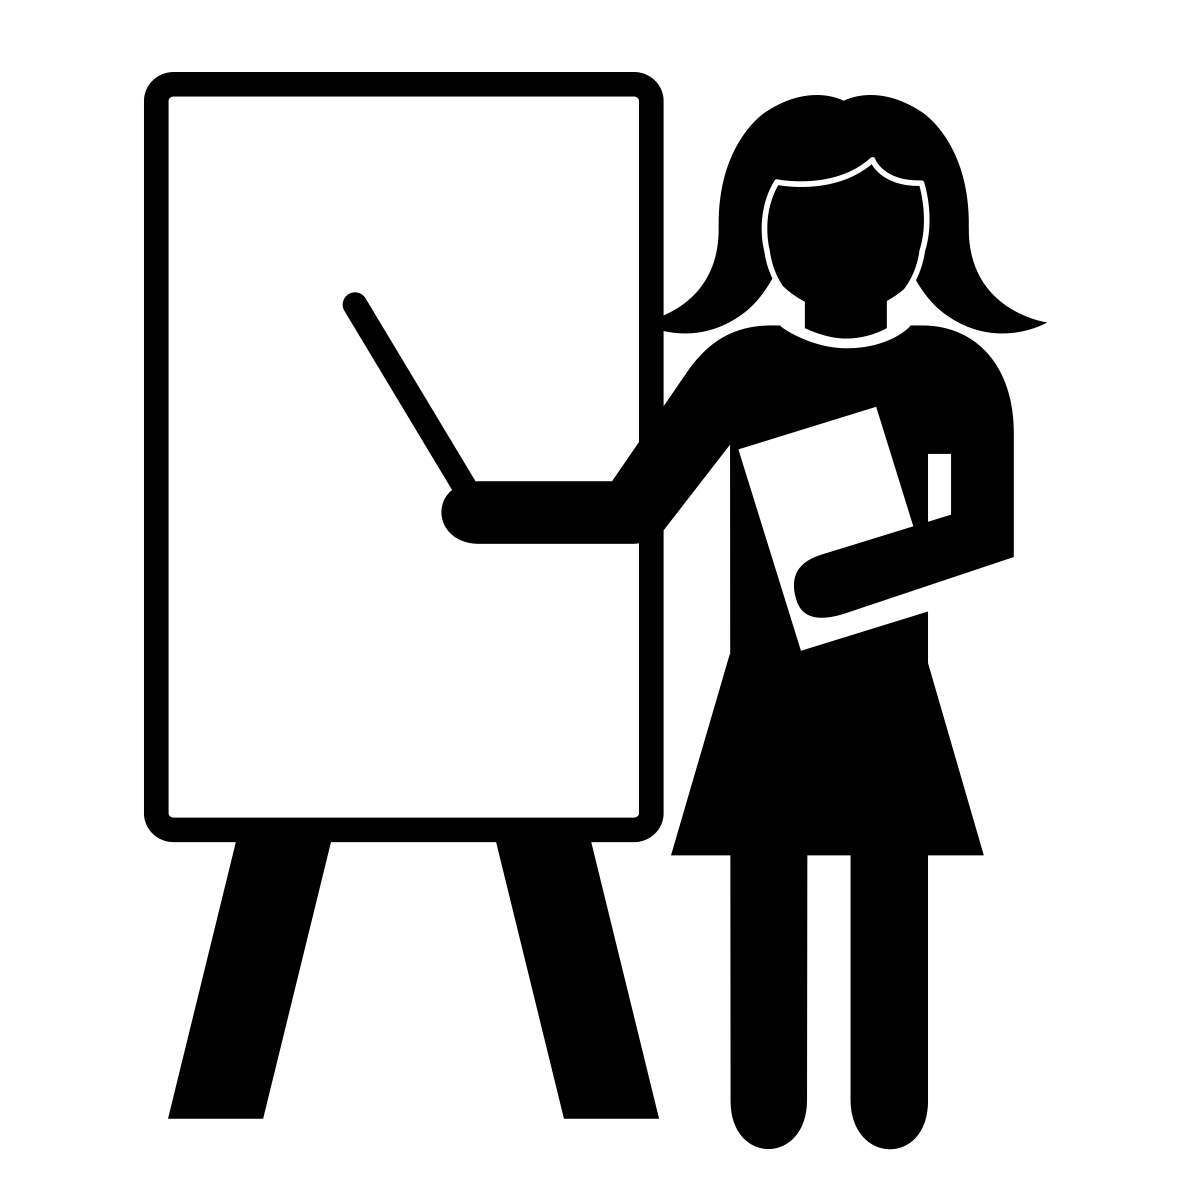
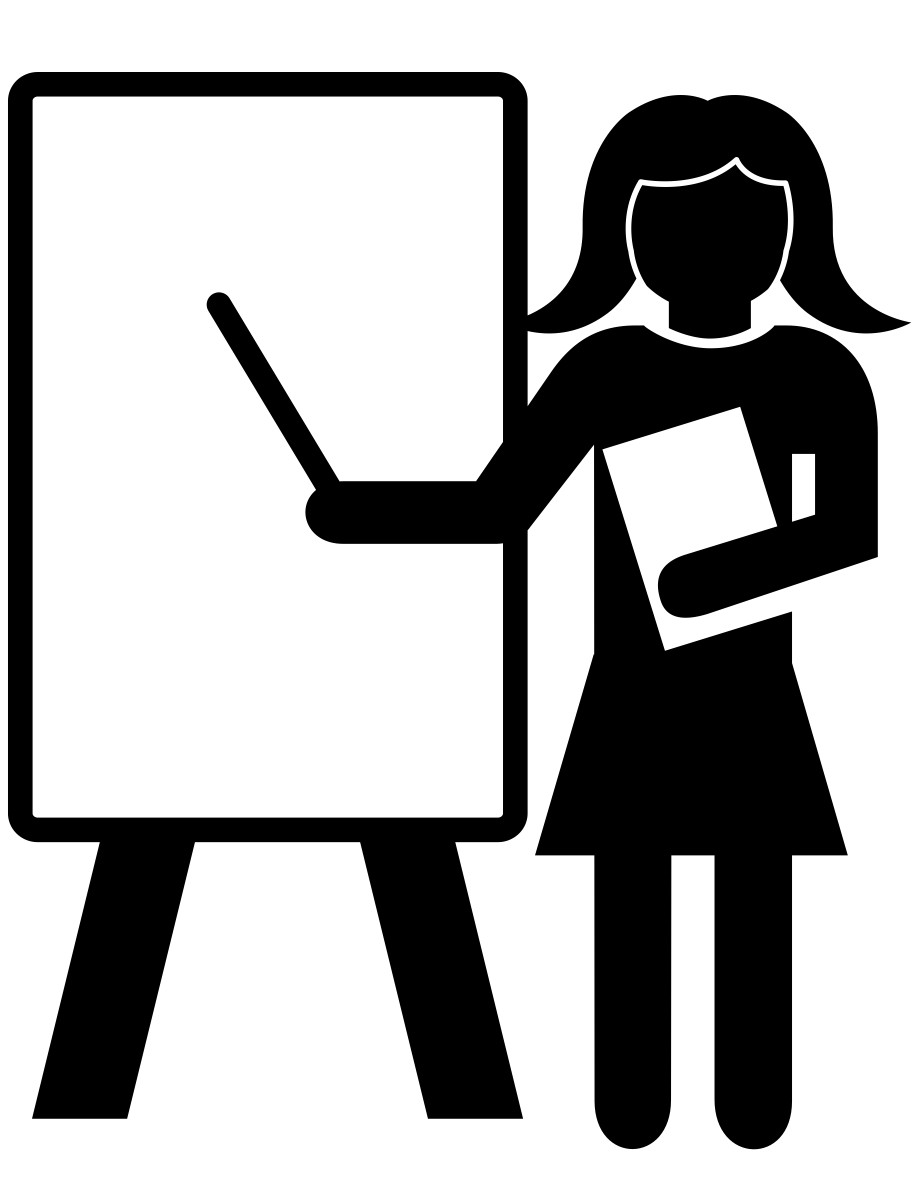
photo-size fix commit

diff --git a/index.html b/index.html
@@ -211,7 +211,7 @@
           <br>• в скором времени вы получаете заветную посылку, а мы ещё одного довольного клиента</p>
       </div>
       <div class="col-md-5">
-        <img class="asos" src="img/people4.png"  width="500px" height="500px"/>
+        <img class="asos" src="img/people4.png"  width="400px" height="500px"/>
 
       </div>
     </div>
